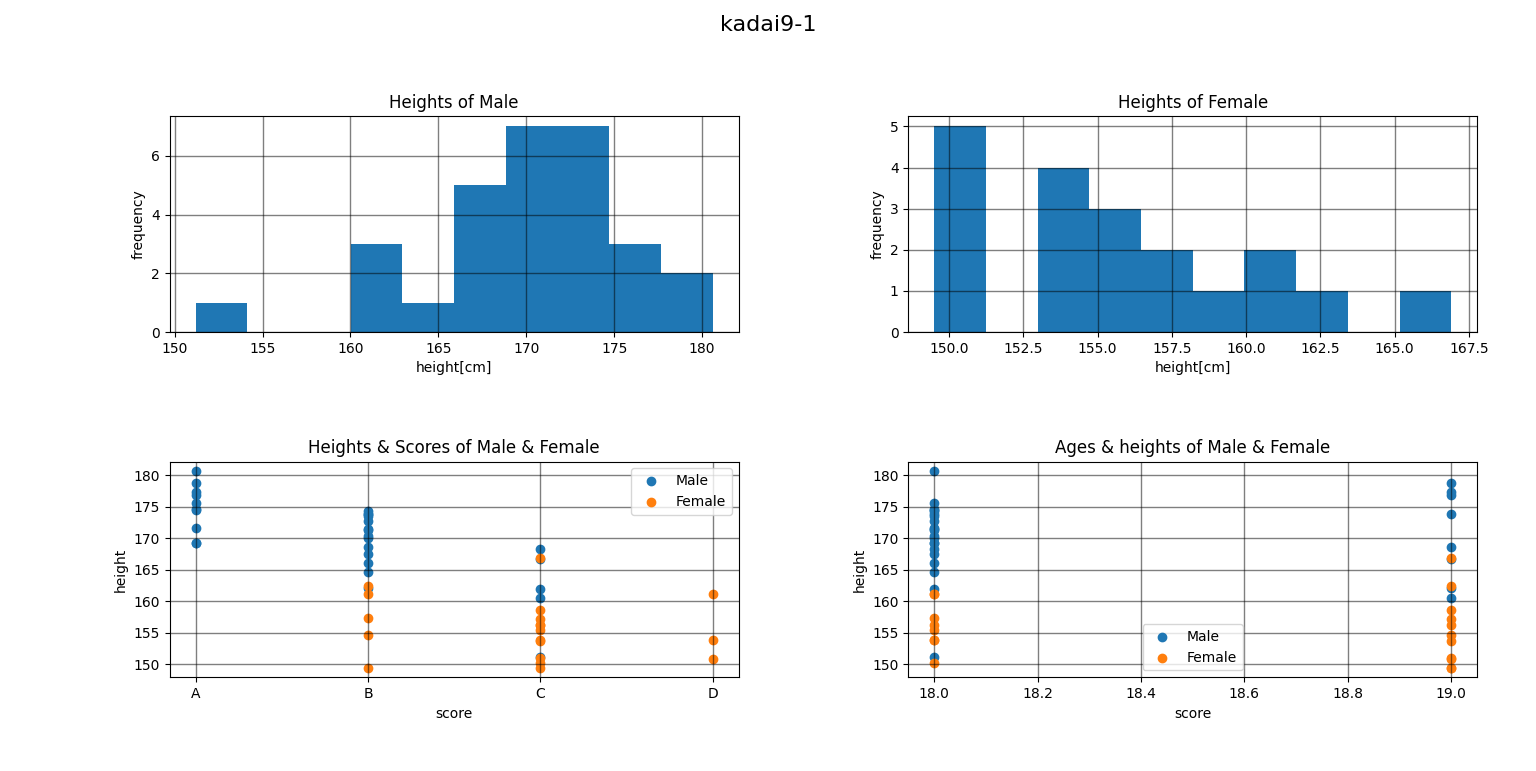
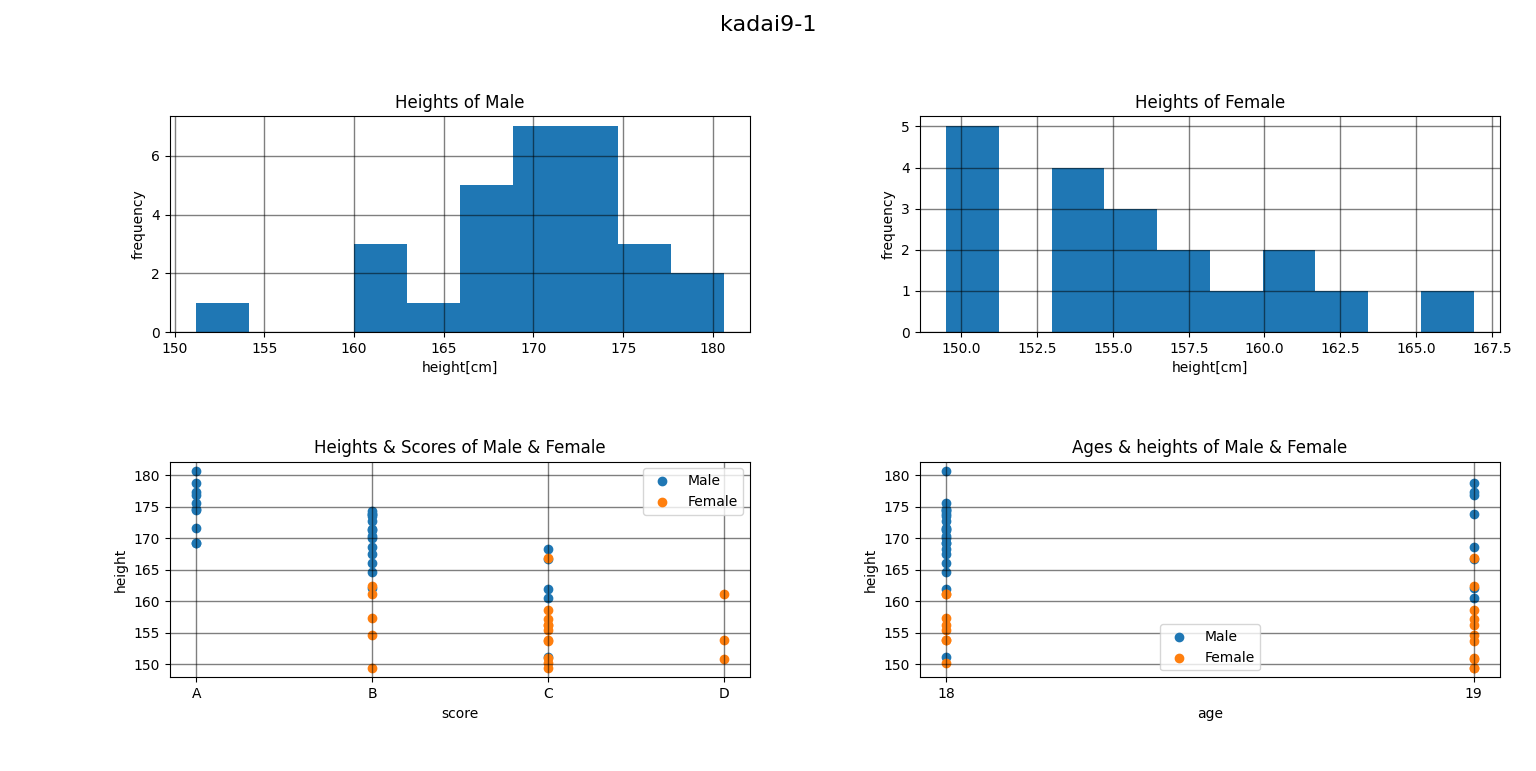
Revise

diff --git a/2021/day9/kadai9-1.py b/2021/day9/kadai9-1.py
@@ -13,6 +13,7 @@ def main():
   df['score'] = pd.Categorical(df['score'], categories=listScore, ordered=True)
   df['scoreValue'] = df['score'].cat.codes
   df = df.sort_values('score', ascending=False)
+  df['age'].astype('int')
   # Prepare graph
   fig, axes = plt.subplots(2, 2)
   # Setup figure
@@ -39,7 +40,8 @@ def main():
   axes[1, 0].grid(b=True, which="both", axis="both", color="black", alpha=0.5, linestyle="-", linewidth=1)
 
   axes[1, 1].set_title("Ages & heights of Male & Female")
-  axes[1, 1].set_xlabel("score")
+  axes[1, 1].set_xlabel("age")
+  axes[1, 1].set_xticks([17, 18, 19, 20])
   axes[1, 1].set_ylabel("height")
   axes[1, 1].scatter(x=df[df['gender'] == 0]['age'], y=df[df['gender'] == 0]['height'], label='Male')
   axes[1, 1].scatter(x=df[df['gender'] == 1]['age'], y=df[df['gender'] == 1]['height'], label='Female')
